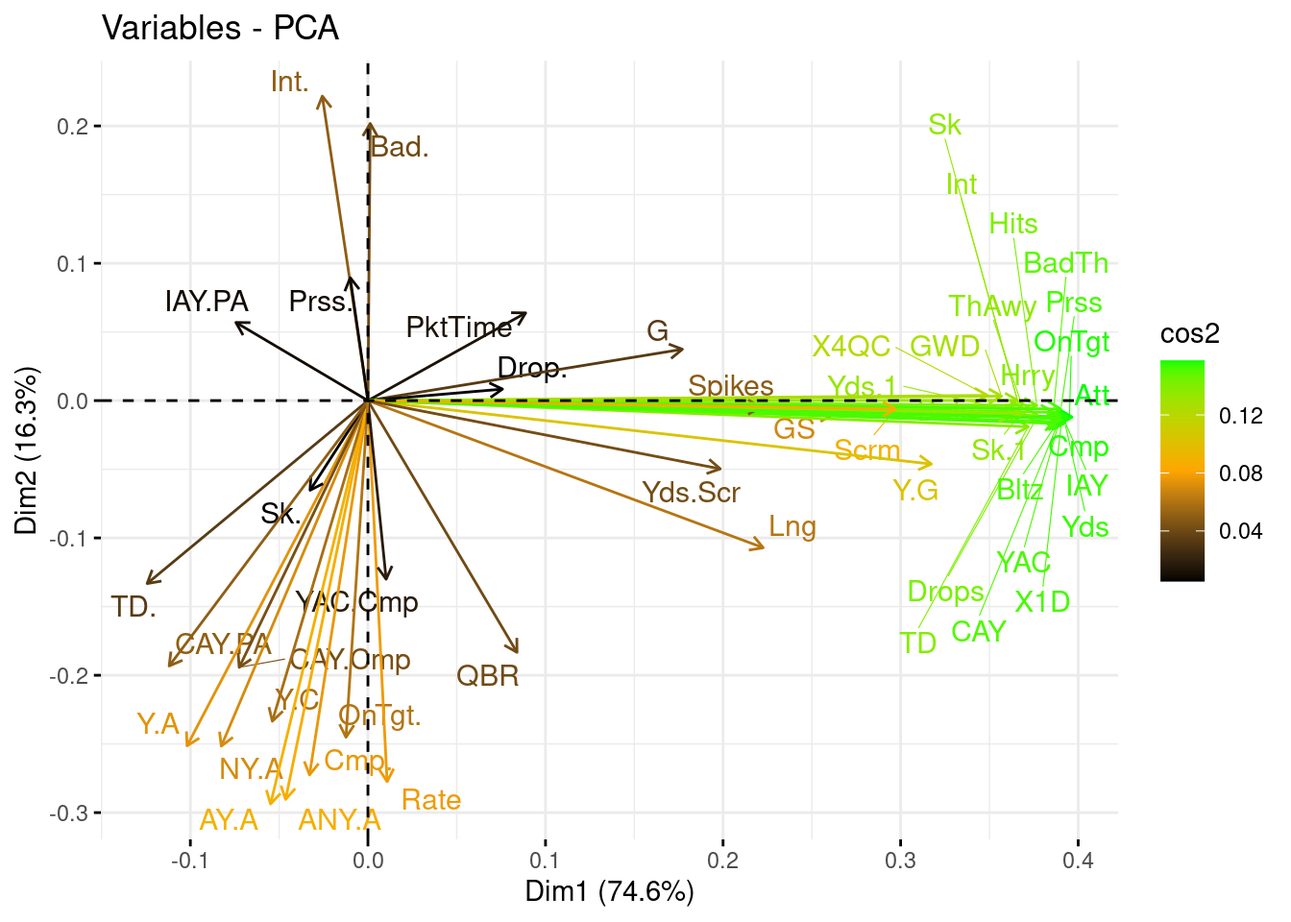
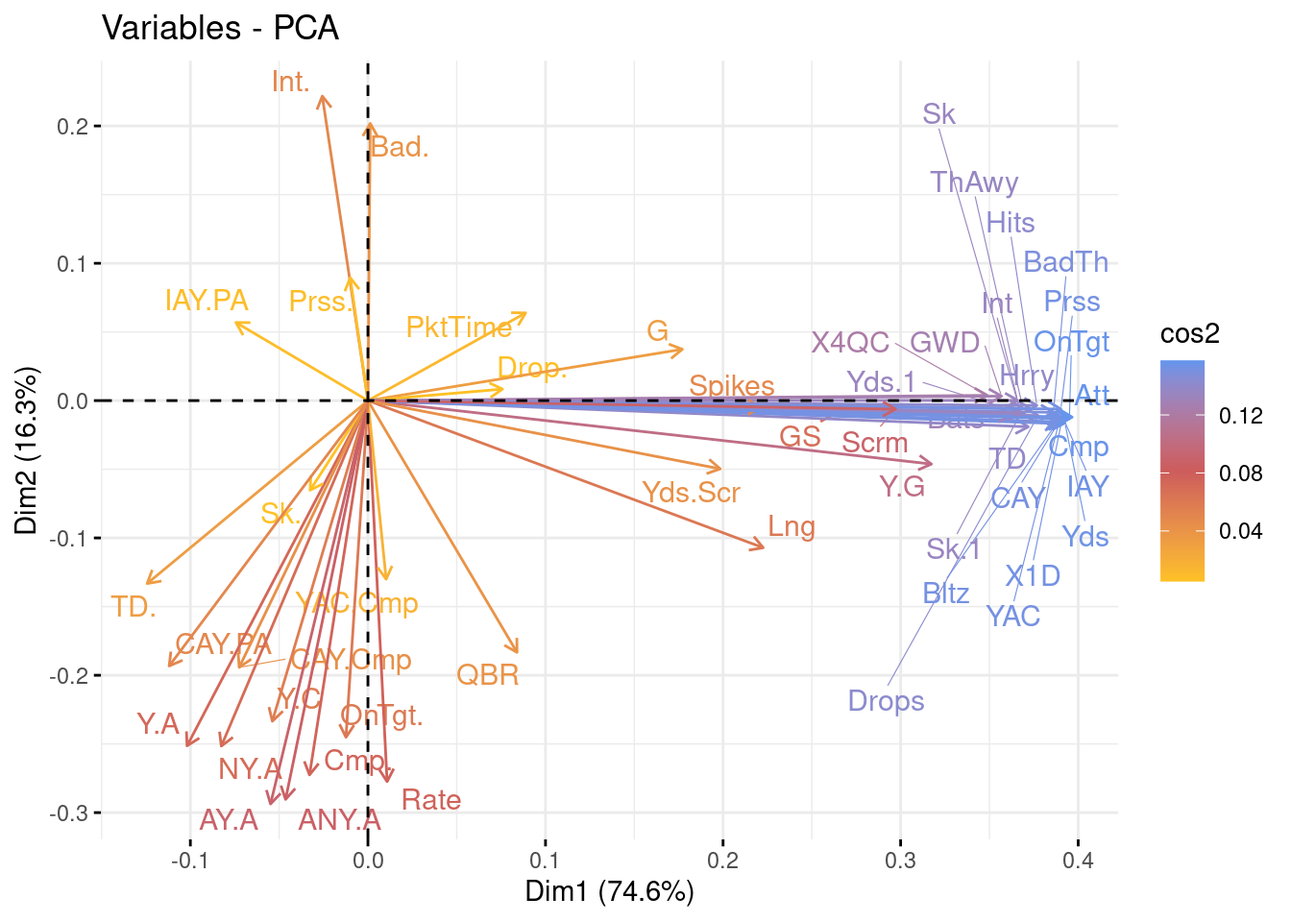
removed data table changed some fomatting added curtis graph color update

diff --git a/index.html b/index.html
@@ -7,9 +7,9 @@
 <meta name="viewport" content="width=device-width, initial-scale=1.0, user-scalable=yes">
 
 <meta name="author" content="Andrew Mercer, Curtis Fox, Eddie Pierce">
-<meta name="dcterms.date" content="2023-04-13">
+<meta name="dcterms.date" content="2023-04-15">
 
-<title>PCA Method Review</title>
+<title>My Document</title>
 <style>
 code{white-space: pre-wrap;}
 span.smallcaps{font-variant: small-caps;}
@@ -130,11 +130,9 @@ div.csl-indent {
    
   <ul>
   <li><a href="#introduction" id="toc-introduction" class="nav-link active" data-scroll-target="#introduction">Introduction</a></li>
-  <li><a href="#methods" id="toc-methods" class="nav-link" data-scroll-target="#methods">Methods</a>
-  <ul class="collapse">
+  <li><a href="#methods" id="toc-methods" class="nav-link" data-scroll-target="#methods">Methods</a></li>
   <li><a href="#data-and-vizualisation" id="toc-data-and-vizualisation" class="nav-link" data-scroll-target="#data-and-vizualisation">Data and Vizualisation</a></li>
   <li><a href="#conclusion" id="toc-conclusion" class="nav-link" data-scroll-target="#conclusion">Conclusion</a></li>
-  </ul></li>
   <li><a href="#references" id="toc-references" class="nav-link" data-scroll-target="#references">References</a></li>
   </ul>
 </nav>
@@ -143,7 +141,7 @@ div.csl-indent {
 
 <header id="title-block-header" class="quarto-title-block default">
 <div class="quarto-title">
-<h1 class="title">PCA Method Review</h1>
+<h1 class="title">My Document</h1>
 </div>
 
 
@@ -160,7 +158,7 @@ div.csl-indent {
     <div>
     <div class="quarto-title-meta-heading">Published</div>
     <div class="quarto-title-meta-contents">
-      <p class="date">April 13, 2023</p>
+      <p class="date">April 15, 2023</p>
     </div>
   </div>
     
@@ -178,12 +176,9 @@ div.csl-indent {
 <span id="cb1-4"><a href="#cb1-4" aria-hidden="true" tabindex="-1"></a><span class="fu">library</span>(FactoMineR)</span>
 <span id="cb1-5"><a href="#cb1-5" aria-hidden="true" tabindex="-1"></a><span class="fu">library</span>(factoextra)</span></code><button title="Copy to Clipboard" class="code-copy-button"><i class="bi"></i></button></pre></div>
 </details>
-<div class="cell-output cell-output-stderr">
-<pre><code>Welcome! Want to learn more? See two factoextra-related books at https://goo.gl/ve3WBa</code></pre>
 </div>
-</div>
-<section id="introduction" class="level2">
-<h2 class="anchored" data-anchor-id="introduction">Introduction</h2>
+<section id="introduction" class="level3">
+<h3 class="anchored" data-anchor-id="introduction">Introduction</h3>
 <p>Principal Component Analysis (PCA) is a widely used statistical method for reducing the dimensionality of multivariate data. The goal of PCA is to transform the original variables into a new set of uncorrelated variables called principal components. This literature review aims to explore the methods and applications of PCA used in previous data analysis. While we will review the use of PCA in several analytical fields, our use of PCA focuses on National Football League data. Our analysis can be found below. In the simplest terms, PCA acts to rotate the axis of different variables to better understand the variance in the data. The variables with the most important relationships are kept as they explain the most variance in the dataset. In this way PCA is used to decrease the dimensionality of a dataset. The first Principal component is calculated by adding the variables once they have been multiplied by a weighted value. The next Principal component is calculated using another variable as long as that variable is uncorrelated to the first. This continues until the number of Principal Components equals the number of variables or until you have reached a determined cutoff point <span class="citation" data-cites="holland2008principal">(<a href="#ref-holland2008principal" role="doc-biblioref">Holland 2008</a>)</span>. The four options provided by Holland to be used as a cutoff point are if the increase of variance explained from one variable to the next is minimal. The second is to set a limit for variance explained, possibly 90%, and ignore all PCs after this limit is reached. The third is to use a correlation matrix and the variance is less than 1. Finally, the fourth, is to ignore the last PCs in the list if their variance explained is equal. In all cases the distribution of the variables data needs to be normally distributed for PCA to work correctly.</p>
 <p>PCA is a powerful tool that can be applied to seemingly any field. Our review has found the application of PCA in remote sensing, public health, finance, and sports. In a paper on remote sensing by <span class="citation" data-cites="kwarteng1989extracting">(<a href="#ref-kwarteng1989extracting" role="doc-biblioref">Kwarteng and Chavez 1989</a>)</span>, the author proposed a method for extracting spectral contrast from Landsat Thematic Mapper Image data. Chavez used Selective Principal Component Analysis (SPCA), a modification of the traditional PCA. This modification was used to extract principal components that are more informative for specific image analysis applications. The author demonstrated that SPCA can improve the discrimination between land cover classes in remote sensing applications. In the field of public health <span class="citation" data-cites="ngo2019principal">(<a href="#ref-ngo2019principal" role="doc-biblioref">Ngo and Turbow 2019</a>)</span> performed a systematic review and meta-analysis of morbidity and mortality among the United States homeless population using PCA. The authors applied PCA to a set of variables related to health outcomes among homeless individuals. The study showed that PCA can be a useful tool for summarizing complex health data and identifying the most important factors that contribute to health outcomes. <span class="citation" data-cites="oualy2021income">(<a href="#ref-oualy2021income" role="doc-biblioref">Oualy 2021</a>)</span> investigated the relationship between income inequality and socio-political instability in sub-Saharan Africa using PCA. The author used PCA to construct an index of socio-political instability based on political violence, government stability, and human rights violations. The study demonstrated that PCA can be an effective method for combining multiple indicators into a single index and identifying the underlying factors that contribute to socio-political instability. In the field of Finance, <span class="citation" data-cites="fang2018stable">(<a href="#ref-fang2018stable" role="doc-biblioref">Fang et al. 2018</a>)</span> proposed a stable systemic risk ranking method for China’s banking sector based on PCA. The authors applied PCA to a set of variables related to the financial performance of Chinese banks and identified the most significant principal components that explain the variance in the data. The study showed how PCA can be used to measure systemic risk in the banking sector and to identify the most important factors that contribute to financial stability. Finally, PCA is often used in Climate and weather analysis. [jolliffe1990principal] used PCA to reduce dimensionality related to meteorology and climatology. The author outlines the importance of interpreting the PCA results in the context of the original data used. In another article related to climate, <span class="citation" data-cites="horel1984complex">(<a href="#ref-horel1984complex" role="doc-biblioref">Horel 1984</a>)</span> used PCA for certain geophysical phenomena where cross-spectral analysis comes up short. The author used complex time series data to compute complex PCs from cross-covariance and cross-correlation matrices.</p>
 <p>The examples above show the use of PCA in several fields. Our focus is the use of PCA in sports. Due to the complex nature of sports statistics, PCA has been used by many authors in the past to reduce the dimensionality of sports data sets. <span class="citation" data-cites="moura2014analysis">(<a href="#ref-moura2014analysis" role="doc-biblioref">Moura, Martins, and Cunha 2014</a>)</span> analyzed European football game-related team statistics using PCA and clustering analysis. The authors applied PCA to a set of variables related to offensive and defensive performance and identified the most significant principal components that explain the variance in the data. The study showed that PCA can be a useful tool for summarizing complex sports data and identifying the most important factors that contribute to overall team performance. An article by <span class="citation" data-cites="pino2021training">(<a href="#ref-pino2021training" role="doc-biblioref">Pino-Ortega et al. 2021</a>)</span> conducted a review of the most relevant variables for training design, performance analysis, and talent identification in European football, basketball, and rugby using PCA. The authors applied PCA to a set of variables related to physical fitness, technical skills, and tactical performance and identified the most significant principal components that explain the variance in the data. The study showed that PCA can be a useful tool for summarizing complex sports data and identifying the most important factors that contribute to performance. Like Pino-Ortega’s article, Jones 2016 used PCA to analyze individual player’s performance in the United States College Football League <span class="citation" data-cites="jones2016modeling">(<a href="#ref-jones2016modeling" role="doc-biblioref">Jones 2016</a>)</span>. The author used Principal Components Analysis to try to find a better statistical method to rank professional quarterback draft prospects than the commonly used Quarterback Rating. The target variable was log transformed. After PCA, the model included only two variables after starting from a very large dataset.</p>
@@ -191,66 +186,35 @@ div.csl-indent {
 <p>While football has remained one of the most watched sports for some time, the popularity of fantasy sports has exploded more recently. To capitalize on fantasy sports, several betting companies have started hosting fantasy football competitions. With these competitions comes the use of analysis to find a competitive edge. With the large datasets involved, Sugar et. al.&nbsp;attempts a PCA to reduce dimensionality and extract the first 2 principal eigenvectors <span class="citation" data-cites="sugar2015predicting">(<a href="#ref-sugar2015predicting" role="doc-biblioref">Sugar and Swenson 2015</a>)</span>. The author then projected the 7-dimensional RB and WR scaled data onto the reduced 2-dimensional PCA space. Visualizing the PCA the author sees that the distribution of WRs and RBs suggests that the x-axis roughly corresponds to a player’s receiving ability, while the y-axis corresponds to their rushing ability. When used with clustering analysis, the PCA values show a way to generate more effective subsets without the risk of overfitting the models. The authors best results show that they were able to reduce the training set for the model by a factor of 3 without significantly increasing variance.</p>
 <p>In conclusion, PCA is a powerful statistical method for reducing the dimensionality of multivariate data and identifying the most significant factors that contribute to the variance in the data. This literature review demonstrated the wide range of applications of PCA in various fields, including remote sensing, public health, sports, and finance. PCA can be a useful tool for summarizing complex data, identifying the most important factors that contribute to the outcomes of interest, and providing insights for decision-making.</p>
 </section>
-<section id="methods" class="level2">
-<h2 class="anchored" data-anchor-id="methods">Methods</h2>
+<section id="methods" class="level3">
+<h3 class="anchored" data-anchor-id="methods">Methods</h3>
 <p>PCA leverages an unsupervised linear transformation to perform feature extraction and dimensionality reduction. It is recommended to use PCA when dealing with strongly correlated variables. The PCA that we are running will be used to explore the dataset.</p>
 <p>In order to run a PCA analysis we first had to normalize the data. The data we were able to get offline was incomplete for some quarterbacks. We had to fill in the stats with zero if that variable had been blank. We then had to remove any variable with any nonlinear data. We then normalized the data using the scale function. After the data was normalized we could move onto the actual analysis.</p>
 <p>After the dataset was normalized we ran it through a correlation matrix. A correlation matrix is a table used to summarize data to compute a PCA (or other analyses). The correlation matrix turns the variables into a nxn matrix. In this case there is 50 variables, so it would be a 50x50 matrix This table displays the correlation coefficients between the variables in a data set.</p>
 <p>The correlation matrix is then run through the principal component to get the PCA values. The summary table shows the results of the PCA values.</p>
+</section>
 <section id="data-and-vizualisation" class="level3">
 <h3 class="anchored" data-anchor-id="data-and-vizualisation">Data and Vizualisation</h3>
 <p>We are looking at advanced passing stats for the 2022 - 2023 NFL calendar year. The data was found on pro-football-reference.com. We looked at common NFL stats such as touchdowns, interceptions, and yards while also looking at less used stats such as on target % and how much time they had in the pocket. By having over fifty variables a PCA is the best way to summarize the large data set.</p>
 <div class="cell">
 <details>
 <summary>Code</summary>
-<div class="sourceCode cell-code" id="cb3"><pre class="sourceCode r code-with-copy"><code class="sourceCode r"><span id="cb3-1"><a href="#cb3-1" aria-hidden="true" tabindex="-1"></a>our_data <span class="ot">=</span> <span class="fu">read.csv</span>(<span class="st">"NFL_Data.csv"</span>)</span>
-<span id="cb3-2"><a href="#cb3-2" aria-hidden="true" tabindex="-1"></a>our_data[<span class="fu">is.na</span>(our_data)] <span class="ot">=</span> <span class="dv">0</span></span>
-<span id="cb3-3"><a href="#cb3-3" aria-hidden="true" tabindex="-1"></a>numerical_data <span class="ot">=</span> our_data[,<span class="dv">2</span><span class="sc">:</span><span class="dv">51</span>]</span>
-<span id="cb3-4"><a href="#cb3-4" aria-hidden="true" tabindex="-1"></a><span class="fu">head</span>(numerical_data,<span class="dv">5</span>)</span></code><button title="Copy to Clipboard" class="code-copy-button"><i class="bi"></i></button></pre></div>
-</details>
-<div class="cell-output cell-output-stdout">
-<pre><code>   G GS Cmp Att Cmp.  Yds TD TD. Int Int. X1D Lng Y.A AY.A  Y.C   Y.G  Rate
-1 17 17 435 648 67.1 5250 41 6.3  12  1.9 272  67 8.1  8.5 12.1 308.8 105.2
-2 17 17 477 699 68.2 4739 25 3.6  10  1.4 228  55 6.8  6.9  9.9 278.8  93.2
-3 17 17 490 733 66.8 4694 25 3.4   9  1.2 237  63 6.4  6.5  9.6 276.1  90.7
-4 17 17 424 643 65.9 4547 29 4.5  14  2.2 230  66 7.1  7.0 10.7 267.5  92.5
-5 16 16 414 606 68.3 4475 35 5.8  12  2.0 222  60 7.4  7.6 10.8 279.7 100.8
-   QBR Sk Yds.1 Sk. NY.A ANY.A X4QC GWD  IAY IAY.PA  CAY CAY.Cmp CAY.PA  YAC
-1 77.6 26   188 3.9 7.51  7.93    4   4 4686    7.2 2397     5.5    3.7 2853
-2 58.2 38   206 5.2 6.15  6.22    4   5 4476    6.4 2246     4.7    3.2 2493
-3 52.5 22   160 2.9 6.01  6.13    4   5 4876    6.7 2379     4.9    3.2 2315
-4 49.9 46   329 6.7 6.12  6.05    8   8 4800    7.5 2569     6.1    4.0 1978
-5 58.7 41   259 6.3 6.52  6.76    3   4 4121    6.8 2319     5.6    3.8 2156
-  YAC.Cmp Bats ThAwy Spikes Drops Drop. BadTh  Bad. OnTgt OnTgt. Sk.1 PktTime
-1     6.6    8    33      0    33 0.054    95 0.154   474  0.771   26     2.6
-2     5.2   23    25      2    39 0.058    87 0.129   508  0.756   38     2.5
-3     4.7   11    22      4    32 0.045   116 0.164   545  0.771   22     2.2
-4     4.7   14    27      3    25 0.041    93 0.152   469  0.765   46     2.5
-5     5.2   24    17      1    34 0.058    76 0.129   465  0.791   41     2.2
-  Bltz Hrry Hits Prss Prss. Scrm Yds.Scr
-1  160   58   56  140 0.194   46     7.5
-2  182   50   72  160 0.211   22     6.5
-3  130   23   55  100 0.132    3     1.0
-4  159   36   84  166 0.237   12     9.1
-5  110   22   48  111 0.165   27     7.5</code></pre>
-</div>
-</div>
-<div class="cell">
-<details>
-<summary>Code</summary>
-<div class="sourceCode cell-code" id="cb5"><pre class="sourceCode r code-with-copy"><code class="sourceCode r"><span id="cb5-1"><a href="#cb5-1" aria-hidden="true" tabindex="-1"></a>data_normalized <span class="ot">=</span> <span class="fu">scale</span>(numerical_data)</span>
-<span id="cb5-2"><a href="#cb5-2" aria-hidden="true" tabindex="-1"></a>corr_matrix <span class="ot">=</span> <span class="fu">cor</span>(data_normalized)</span>
-<span id="cb5-3"><a href="#cb5-3" aria-hidden="true" tabindex="-1"></a><span class="fu">ggcorrplot</span>(corr_matrix)</span></code><button title="Copy to Clipboard" class="code-copy-button"><i class="bi"></i></button></pre></div>
+<div class="sourceCode cell-code" id="cb2"><pre class="sourceCode r code-with-copy"><code class="sourceCode r"><span id="cb2-1"><a href="#cb2-1" aria-hidden="true" tabindex="-1"></a>our_data <span class="ot">=</span> <span class="fu">read.csv</span>(<span class="st">"NFL_Data.csv"</span>)</span>
+<span id="cb2-2"><a href="#cb2-2" aria-hidden="true" tabindex="-1"></a>our_data[<span class="fu">is.na</span>(our_data)] <span class="ot">=</span> <span class="dv">0</span></span>
+<span id="cb2-3"><a href="#cb2-3" aria-hidden="true" tabindex="-1"></a>numerical_data <span class="ot">=</span> our_data[,<span class="dv">2</span><span class="sc">:</span><span class="dv">51</span>]</span>
+<span id="cb2-4"><a href="#cb2-4" aria-hidden="true" tabindex="-1"></a>data_normalized <span class="ot">=</span> <span class="fu">scale</span>(numerical_data)</span>
+<span id="cb2-5"><a href="#cb2-5" aria-hidden="true" tabindex="-1"></a>corr_matrix <span class="ot">=</span> <span class="fu">cor</span>(data_normalized)</span>
+<span id="cb2-6"><a href="#cb2-6" aria-hidden="true" tabindex="-1"></a><span class="fu">ggcorrplot</span>(corr_matrix)</span></code><button title="Copy to Clipboard" class="code-copy-button"><i class="bi"></i></button></pre></div>
 </details>
 <div class="cell-output-display">
-<p><img src="index_files/figure-html/unnamed-chunk-3-1.png" class="img-fluid" width="672"></p>
+<p><img src="index_files/figure-html/unnamed-chunk-2-1.png" class="img-fluid" width="672"></p>
 </div>
 </div>
 <div class="cell">
 <details>
 <summary>Code</summary>
-<div class="sourceCode cell-code" id="cb6"><pre class="sourceCode r code-with-copy"><code class="sourceCode r"><span id="cb6-1"><a href="#cb6-1" aria-hidden="true" tabindex="-1"></a>data.pca <span class="ot">=</span> <span class="fu">princomp</span>(corr_matrix)</span>
-<span id="cb6-2"><a href="#cb6-2" aria-hidden="true" tabindex="-1"></a><span class="fu">summary</span>(data.pca)</span></code><button title="Copy to Clipboard" class="code-copy-button"><i class="bi"></i></button></pre></div>
+<div class="sourceCode cell-code" id="cb3"><pre class="sourceCode r code-with-copy"><code class="sourceCode r"><span id="cb3-1"><a href="#cb3-1" aria-hidden="true" tabindex="-1"></a>data.pca <span class="ot">=</span> <span class="fu">princomp</span>(corr_matrix)</span>
+<span id="cb3-2"><a href="#cb3-2" aria-hidden="true" tabindex="-1"></a><span class="fu">summary</span>(data.pca)</span></code><button title="Copy to Clipboard" class="code-copy-button"><i class="bi"></i></button></pre></div>
 </details>
 <div class="cell-output cell-output-stdout">
 <pre><code>Importance of components:
@@ -307,7 +271,7 @@ Cumulative Proportion  1.000000e+00 1.000000e+00       1       1       1</code><
 <div class="cell">
 <details>
 <summary>Code</summary>
-<div class="sourceCode cell-code" id="cb8"><pre class="sourceCode r code-with-copy"><code class="sourceCode r"><span id="cb8-1"><a href="#cb8-1" aria-hidden="true" tabindex="-1"></a>data.pca<span class="sc">$</span>loadings[, <span class="dv">1</span><span class="sc">:</span><span class="dv">2</span>]</span></code><button title="Copy to Clipboard" class="code-copy-button"><i class="bi"></i></button></pre></div>
+<div class="sourceCode cell-code" id="cb5"><pre class="sourceCode r code-with-copy"><code class="sourceCode r"><span id="cb5-1"><a href="#cb5-1" aria-hidden="true" tabindex="-1"></a>data.pca<span class="sc">$</span>loadings[, <span class="dv">1</span><span class="sc">:</span><span class="dv">2</span>]</span></code><button title="Copy to Clipboard" class="code-copy-button"><i class="bi"></i></button></pre></div>
 </details>
 <div class="cell-output cell-output-stdout">
 <pre><code>              Comp.1       Comp.2
@@ -364,33 +328,33 @@ Yds.Scr  0.101559897 -0.054354420</code></pre>
 </div>
 <details>
 <summary>Code</summary>
-<div class="sourceCode cell-code" id="cb10"><pre class="sourceCode r code-with-copy"><code class="sourceCode r"><span id="cb10-1"><a href="#cb10-1" aria-hidden="true" tabindex="-1"></a><span class="fu">fviz_eig</span>(data.pca, <span class="at">addlabels =</span> <span class="cn">TRUE</span>) <span class="co">#this is a scree plot of the principal component</span></span></code><button title="Copy to Clipboard" class="code-copy-button"><i class="bi"></i></button></pre></div>
+<div class="sourceCode cell-code" id="cb7"><pre class="sourceCode r code-with-copy"><code class="sourceCode r"><span id="cb7-1"><a href="#cb7-1" aria-hidden="true" tabindex="-1"></a><span class="fu">fviz_eig</span>(data.pca, <span class="at">addlabels =</span> <span class="cn">TRUE</span>) <span class="co">#this is a scree plot of the principal component</span></span></code><button title="Copy to Clipboard" class="code-copy-button"><i class="bi"></i></button></pre></div>
 </details>
 <div class="cell-output-display">
-<p><img src="index_files/figure-html/unnamed-chunk-5-1.png" class="img-fluid" width="672"></p>
+<p><img src="index_files/figure-html/unnamed-chunk-4-1.png" class="img-fluid" width="672"></p>
 </div>
 <details>
 <summary>Code</summary>
-<div class="sourceCode cell-code" id="cb11"><pre class="sourceCode r code-with-copy"><code class="sourceCode r"><span id="cb11-1"><a href="#cb11-1" aria-hidden="true" tabindex="-1"></a><span class="fu">fviz_pca_var</span>(data.pca, <span class="at">col.var =</span> <span class="st">"black"</span>)</span></code><button title="Copy to Clipboard" class="code-copy-button"><i class="bi"></i></button></pre></div>
+<div class="sourceCode cell-code" id="cb8"><pre class="sourceCode r code-with-copy"><code class="sourceCode r"><span id="cb8-1"><a href="#cb8-1" aria-hidden="true" tabindex="-1"></a><span class="fu">fviz_pca_var</span>(data.pca, <span class="at">col.var =</span> <span class="st">"black"</span>)</span></code><button title="Copy to Clipboard" class="code-copy-button"><i class="bi"></i></button></pre></div>
 </details>
 <div class="cell-output-display">
-<p><img src="index_files/figure-html/unnamed-chunk-5-2.png" class="img-fluid" width="672"></p>
+<p><img src="index_files/figure-html/unnamed-chunk-4-2.png" class="img-fluid" width="672"></p>
 </div>
 <details>
 <summary>Code</summary>
-<div class="sourceCode cell-code" id="cb12"><pre class="sourceCode r code-with-copy"><code class="sourceCode r"><span id="cb12-1"><a href="#cb12-1" aria-hidden="true" tabindex="-1"></a><span class="fu">fviz_cos2</span>(data.pca, <span class="at">choice =</span> <span class="st">"var"</span>, <span class="at">axes =</span> <span class="dv">1</span><span class="sc">:</span><span class="dv">2</span>)</span></code><button title="Copy to Clipboard" class="code-copy-button"><i class="bi"></i></button></pre></div>
+<div class="sourceCode cell-code" id="cb9"><pre class="sourceCode r code-with-copy"><code class="sourceCode r"><span id="cb9-1"><a href="#cb9-1" aria-hidden="true" tabindex="-1"></a><span class="fu">fviz_cos2</span>(data.pca, <span class="at">choice =</span> <span class="st">"var"</span>, <span class="at">axes =</span> <span class="dv">1</span><span class="sc">:</span><span class="dv">2</span>)</span></code><button title="Copy to Clipboard" class="code-copy-button"><i class="bi"></i></button></pre></div>
 </details>
 <div class="cell-output-display">
-<p><img src="index_files/figure-html/unnamed-chunk-5-3.png" class="img-fluid" width="672"></p>
+<p><img src="index_files/figure-html/unnamed-chunk-4-3.png" class="img-fluid" width="672"></p>
 </div>
 <details>
 <summary>Code</summary>
-<div class="sourceCode cell-code" id="cb13"><pre class="sourceCode r code-with-copy"><code class="sourceCode r"><span id="cb13-1"><a href="#cb13-1" aria-hidden="true" tabindex="-1"></a><span class="fu">fviz_pca_var</span>(data.pca, <span class="at">col.var =</span> <span class="st">"cos2"</span>,</span>
-<span id="cb13-2"><a href="#cb13-2" aria-hidden="true" tabindex="-1"></a>            <span class="at">gradient.cols =</span> <span class="fu">c</span>(<span class="st">"black"</span>, <span class="st">"orange"</span>, <span class="st">"green"</span>),</span>
-<span id="cb13-3"><a href="#cb13-3" aria-hidden="true" tabindex="-1"></a>            <span class="at">repel =</span> <span class="cn">TRUE</span>)</span></code><button title="Copy to Clipboard" class="code-copy-button"><i class="bi"></i></button></pre></div>
+<div class="sourceCode cell-code" id="cb10"><pre class="sourceCode r code-with-copy"><code class="sourceCode r"><span id="cb10-1"><a href="#cb10-1" aria-hidden="true" tabindex="-1"></a><span class="fu">fviz_pca_var</span>(data.pca, <span class="at">col.var =</span> <span class="st">"cos2"</span>,</span>
+<span id="cb10-2"><a href="#cb10-2" aria-hidden="true" tabindex="-1"></a>            <span class="at">gradient.cols =</span> <span class="fu">c</span>(<span class="st">"goldenrod1"</span>, <span class="st">"indianred"</span>,  <span class="st">"cornflowerblue"</span>),</span>
+<span id="cb10-3"><a href="#cb10-3" aria-hidden="true" tabindex="-1"></a>            <span class="at">repel =</span> <span class="cn">TRUE</span>)</span></code><button title="Copy to Clipboard" class="code-copy-button"><i class="bi"></i></button></pre></div>
 </details>
 <div class="cell-output-display">
-<p><img src="index_files/figure-html/unnamed-chunk-5-4.png" class="img-fluid" width="672"></p>
+<p><img src="index_files/figure-html/unnamed-chunk-4-4.png" class="img-fluid" width="672"></p>
 </div>
 </div>
 <p>#Black=Low Cos2 Attributes; Orange=Mid Cos2 Attributes; Green=High Cos2 Attributes</p>
@@ -399,8 +363,7 @@ Yds.Scr  0.101559897 -0.054354420</code></pre>
 <h3 class="anchored" data-anchor-id="conclusion">Conclusion</h3>
 <p>In conclusion,there really isn’t a perfect way to choose the number of principal components are needed/wanted. One common method is to examine the scree plot. Thus, to identify where the point of the proportion of variance explained drops significantly, or what is referred to at the elbow in the plot. Another way is to decide on the proportion of variance that is explained as a cutoff, like 90%. In our data, you can see that the first two principal components achieve both of these benchmarks. This makes choosing the first 2 easy, as they account for 91% of the proportion of the variance explained and the drop off is fairly significant to the third principal component. What we have accomplished is starting with 50 variables and reducing the dimensionality all the way to two variables that account for 91% of the variance explained. Next steps would be to transform the original data by the principal components. That is FinalDataSet=Transpose(FeatureVector)*Transpose(StandardizedOriginalDataSet), where the Feature Vector is simply a matrix that has the eigenvectors of the components that were kept as columns. After the transformation, this will reduce the dimensionality and then an easier, more cost efficient, and less needed computer resources analysis can be performed.</p>
 </section>
-</section>
-<section id="references" class="level2 unnumbered">
+<section id="references" class="level3 unnumbered">
 
 
 </section>
